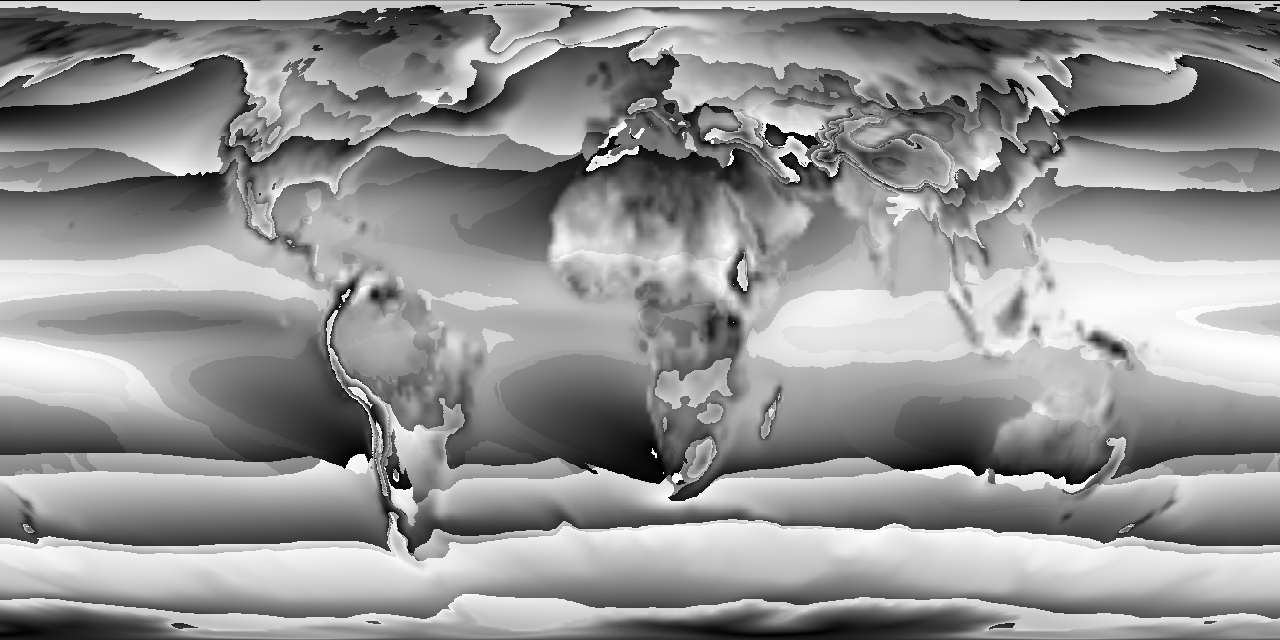
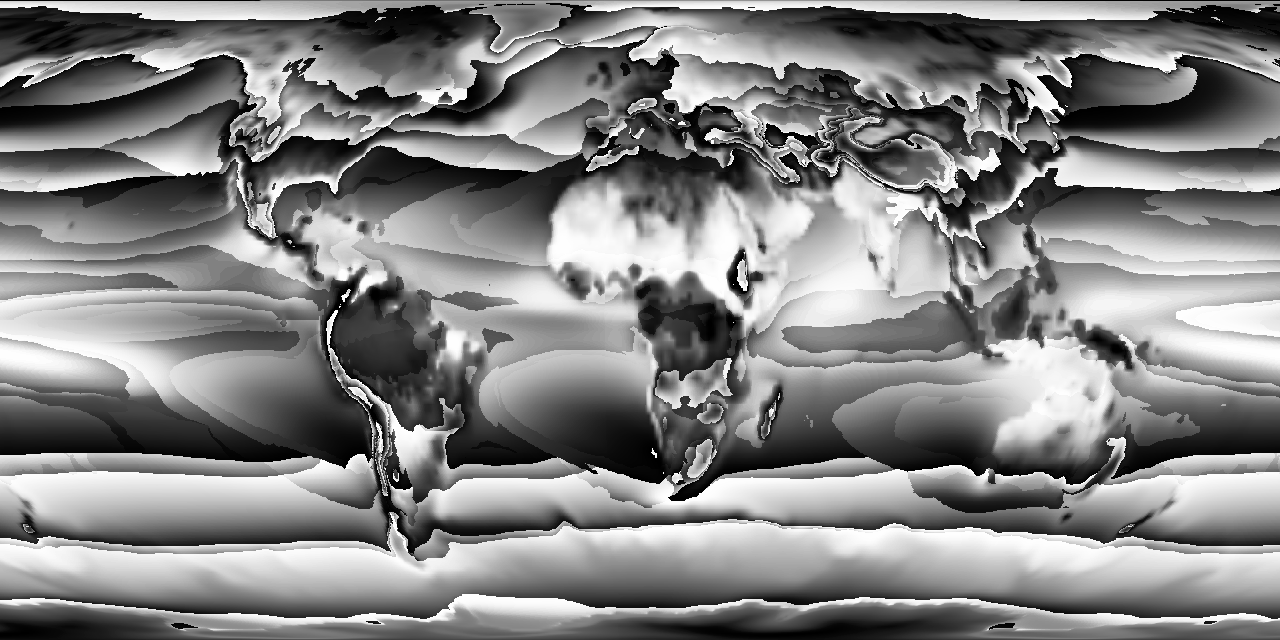
Balanced interpolation instead of procedural generation

diff --git a/src/main/java/net/yazloysasha/tfcrealworld/world/noise/koppen/KoppenBasedRainfallVarianceNoise.java b/src/main/java/net/yazloysasha/tfcrealworld/world/noise/koppen/KoppenBasedRainfallVarianceNoise.java
@@ -1,11 +1,15 @@
 package net.yazloysasha.tfcrealworld.world.noise.koppen;
 
+import net.dries007.tfc.world.noise.Noise2D;
+import net.dries007.tfc.world.noise.OpenSimplex2D;
 import net.minecraft.util.Mth;
 import net.yazloysasha.tfcrealworld.world.noise.png.PNGKoppenNoise;
 import net.yazloysasha.tfcrealworld.world.noise.png.PNGRainfallNoise;
 import net.yazloysasha.tfcrealworld.world.noise.png.PNGTemperatureNoise;
 
 public class KoppenBasedRainfallVarianceNoise extends BaseKoppenBasedNoise {
+
+  private final Noise2D variationNoise;
 
   public KoppenBasedRainfallVarianceNoise(
     PNGKoppenNoise koppenNoise,
@@ -14,6 +18,10 @@ public class KoppenBasedRainfallVarianceNoise extends BaseKoppenBasedNoise {
     long seed
   ) {
     super(koppenNoise, temperatureNoise, rainfallNoise, seed, 0.1f);
+    this.variationNoise = new OpenSimplex2D(seed + 99999L)
+      .octaves(2)
+      .spread(0.1f)
+      .scaled(0.0, 1.0);
   }
 
   @Override
@@ -21,17 +29,75 @@ public class KoppenBasedRainfallVarianceNoise extends BaseKoppenBasedNoise {
     PNGKoppenNoise.ClimateInterpolationResult interpolation =
       koppenNoise.getClimateInterpolation(x, z);
 
-    double[] indices = calculateIndices(x, z);
+    double[] tempGrayscales = new double[] {
+      temperatureNoise.getGrayscaleValue(x - 0.1, z - 0.1),
+      temperatureNoise.getGrayscaleValue(x + 0.1, z - 0.1),
+      temperatureNoise.getGrayscaleValue(x - 0.1, z + 0.1),
+      temperatureNoise.getGrayscaleValue(x + 0.1, z + 0.1),
+    };
 
-    float[] range00 = parameterCache.getRainVarRange(interpolation.climate00);
-    float[] range10 = parameterCache.getRainVarRange(interpolation.climate10);
-    float[] range01 = parameterCache.getRainVarRange(interpolation.climate01);
-    float[] range11 = parameterCache.getRainVarRange(interpolation.climate11);
+    double[] rainGrayscales = new double[] {
+      rainfallNoise.getGrayscaleValue(x - 0.1, z - 0.1),
+      rainfallNoise.getGrayscaleValue(x + 0.1, z - 0.1),
+      rainfallNoise.getGrayscaleValue(x - 0.1, z + 0.1),
+      rainfallNoise.getGrayscaleValue(x + 0.1, z + 0.1),
+    };
 
-    double rainVar00 = range00[0] + (range00[1] - range00[0]) * indices[0];
-    double rainVar10 = range10[0] + (range10[1] - range10[0]) * indices[1];
-    double rainVar01 = range01[0] + (range01[1] - range01[0]) * indices[2];
-    double rainVar11 = range11[0] + (range11[1] - range11[0]) * indices[3];
+    KoppenParameterCache.ParameterCombination params00 =
+      parameterCache.getParametersFromGrayscale(
+        interpolation.climate00,
+        tempGrayscales[0],
+        rainGrayscales[0]
+      );
+    KoppenParameterCache.ParameterCombination params10 =
+      parameterCache.getParametersFromGrayscale(
+        interpolation.climate10,
+        tempGrayscales[1],
+        rainGrayscales[1]
+      );
+    KoppenParameterCache.ParameterCombination params01 =
+      parameterCache.getParametersFromGrayscale(
+        interpolation.climate01,
+        tempGrayscales[2],
+        rainGrayscales[2]
+      );
+    KoppenParameterCache.ParameterCombination params11 =
+      parameterCache.getParametersFromGrayscale(
+        interpolation.climate11,
+        tempGrayscales[3],
+        rainGrayscales[3]
+      );
+
+    double variation00 = variationNoise.noise(x - 0.1, z - 0.1);
+    double variation10 = variationNoise.noise(x + 0.1, z - 0.1);
+    double variation01 = variationNoise.noise(x - 0.1, z + 0.1);
+    double variation11 = variationNoise.noise(x + 0.1, z + 0.1);
+
+    float[] range00 = parameterCache.getRainVarRangeForCombination(
+      interpolation.climate00,
+      params00.temperature,
+      params00.rainfall
+    );
+    float[] range10 = parameterCache.getRainVarRangeForCombination(
+      interpolation.climate10,
+      params10.temperature,
+      params10.rainfall
+    );
+    float[] range01 = parameterCache.getRainVarRangeForCombination(
+      interpolation.climate01,
+      params01.temperature,
+      params01.rainfall
+    );
+    float[] range11 = parameterCache.getRainVarRangeForCombination(
+      interpolation.climate11,
+      params11.temperature,
+      params11.rainfall
+    );
+
+    double rainVar00 = range00[0] + (range00[1] - range00[0]) * variation00;
+    double rainVar10 = range10[0] + (range10[1] - range10[0]) * variation10;
+    double rainVar01 = range01[0] + (range01[1] - range01[0]) * variation01;
+    double rainVar11 = range11[0] + (range11[1] - range11[0]) * variation11;
 
     double result =
       rainVar00 * interpolation.weight00 +

diff --git a/src/main/java/net/yazloysasha/tfcrealworld/world/noise/koppen/BaseKoppenBasedNoise.java b/src/main/java/net/yazloysasha/tfcrealworld/world/noise/koppen/BaseKoppenBasedNoise.java
@@ -13,7 +13,6 @@ public abstract class BaseKoppenBasedNoise implements Noise2D {
   protected final PNGTemperatureNoise temperatureNoise;
   protected final PNGRainfallNoise rainfallNoise;
   protected final KoppenParameterCache parameterCache;
-  protected final Noise2D variationNoise;
   protected final Noise2D indexNoise;
 
   protected BaseKoppenBasedNoise(
@@ -27,11 +26,6 @@ public abstract class BaseKoppenBasedNoise implements Noise2D {
     this.temperatureNoise = temperatureNoise;
     this.rainfallNoise = rainfallNoise;
     this.parameterCache = KoppenParameterCache.getInstance();
-
-    this.variationNoise = new OpenSimplex2D(seed + 12345L)
-      .octaves(2)
-      .spread(spread)
-      .scaled(-1.0, 1.0);
 
     this.indexNoise = new OpenSimplex2D(seed)
       .octaves(2)
@@ -57,34 +51,6 @@ public abstract class BaseKoppenBasedNoise implements Noise2D {
       rainfallNoise.getGrayscaleValue(x - 0.1, z + 0.1),
       rainfallNoise.getGrayscaleValue(x + 0.1, z + 0.1),
     };
-
-    double variationAmplitude = 32.0;
-    double[] tempVariations = new double[] {
-      variationNoise.noise(x - 0.1, z - 0.1) * variationAmplitude,
-      variationNoise.noise(x + 0.1, z - 0.1) * variationAmplitude,
-      variationNoise.noise(x - 0.1, z + 0.1) * variationAmplitude,
-      variationNoise.noise(x + 0.1, z + 0.1) * variationAmplitude,
-    };
-
-    double[] rainVariations = new double[] {
-      variationNoise.noise(x - 0.1 + 1000, z - 0.1 + 1000) * variationAmplitude,
-      variationNoise.noise(x + 0.1 + 1000, z - 0.1 + 1000) * variationAmplitude,
-      variationNoise.noise(x - 0.1 + 1000, z + 0.1 + 1000) * variationAmplitude,
-      variationNoise.noise(x + 0.1 + 1000, z + 0.1 + 1000) * variationAmplitude,
-    };
-
-    for (int i = 0; i < 4; i++) {
-      tempGrayscales[i] = Mth.clamp(
-        tempGrayscales[i] + tempVariations[i],
-        0.0,
-        255.0
-      );
-      rainGrayscales[i] = Mth.clamp(
-        rainGrayscales[i] + rainVariations[i],
-        0.0,
-        255.0
-      );
-    }
 
     KoppenParameterCache.ParameterCombination params00 =
       parameterCache.getParametersFromGrayscale(

diff --git a/src/main/java/net/yazloysasha/tfcrealworld/world/noise/koppen/KoppenParameterCache.java b/src/main/java/net/yazloysasha/tfcrealworld/world/noise/koppen/KoppenParameterCache.java
@@ -186,6 +186,43 @@ public class KoppenParameterCache {
     return new float[] { -1.0f, 1.0f };
   }
 
+  public float[] getRainVarRangeForCombination(
+    KoppenClimateClassification climate,
+    float temperature,
+    float rainfall
+  ) {
+    ParameterArray combinations = climateCombinations.get(climate);
+    if (combinations == null || combinations.temperatures.length == 0) {
+      return new float[] { -1.0f, 1.0f };
+    }
+
+    float minRainVar = Float.MAX_VALUE;
+    float maxRainVar = Float.MIN_VALUE;
+
+    float tempTolerance = 1.0f;
+    float rainTolerance = 10.0f;
+
+    for (int i = 0; i < combinations.temperatures.length; i++) {
+      float tempDiff = Math.abs(combinations.temperatures[i] - temperature);
+      float rainDiff = Math.abs(combinations.rainfalls[i] - rainfall);
+
+      if (tempDiff <= tempTolerance && rainDiff <= rainTolerance) {
+        if (combinations.rainVars[i] < minRainVar) {
+          minRainVar = combinations.rainVars[i];
+        }
+        if (combinations.rainVars[i] > maxRainVar) {
+          maxRainVar = combinations.rainVars[i];
+        }
+      }
+    }
+
+    if (minRainVar == Float.MAX_VALUE || maxRainVar == Float.MIN_VALUE) {
+      return getRainVarRange(climate);
+    }
+
+    return new float[] { minRainVar, maxRainVar };
+  }
+
   private void buildCache() {
     float[] temperatures = generateRange(-20.0f, 30.0f, 1.0f);
     float[] rainfalls = generateRange(0.0f, 500.0f, 10.0f);
